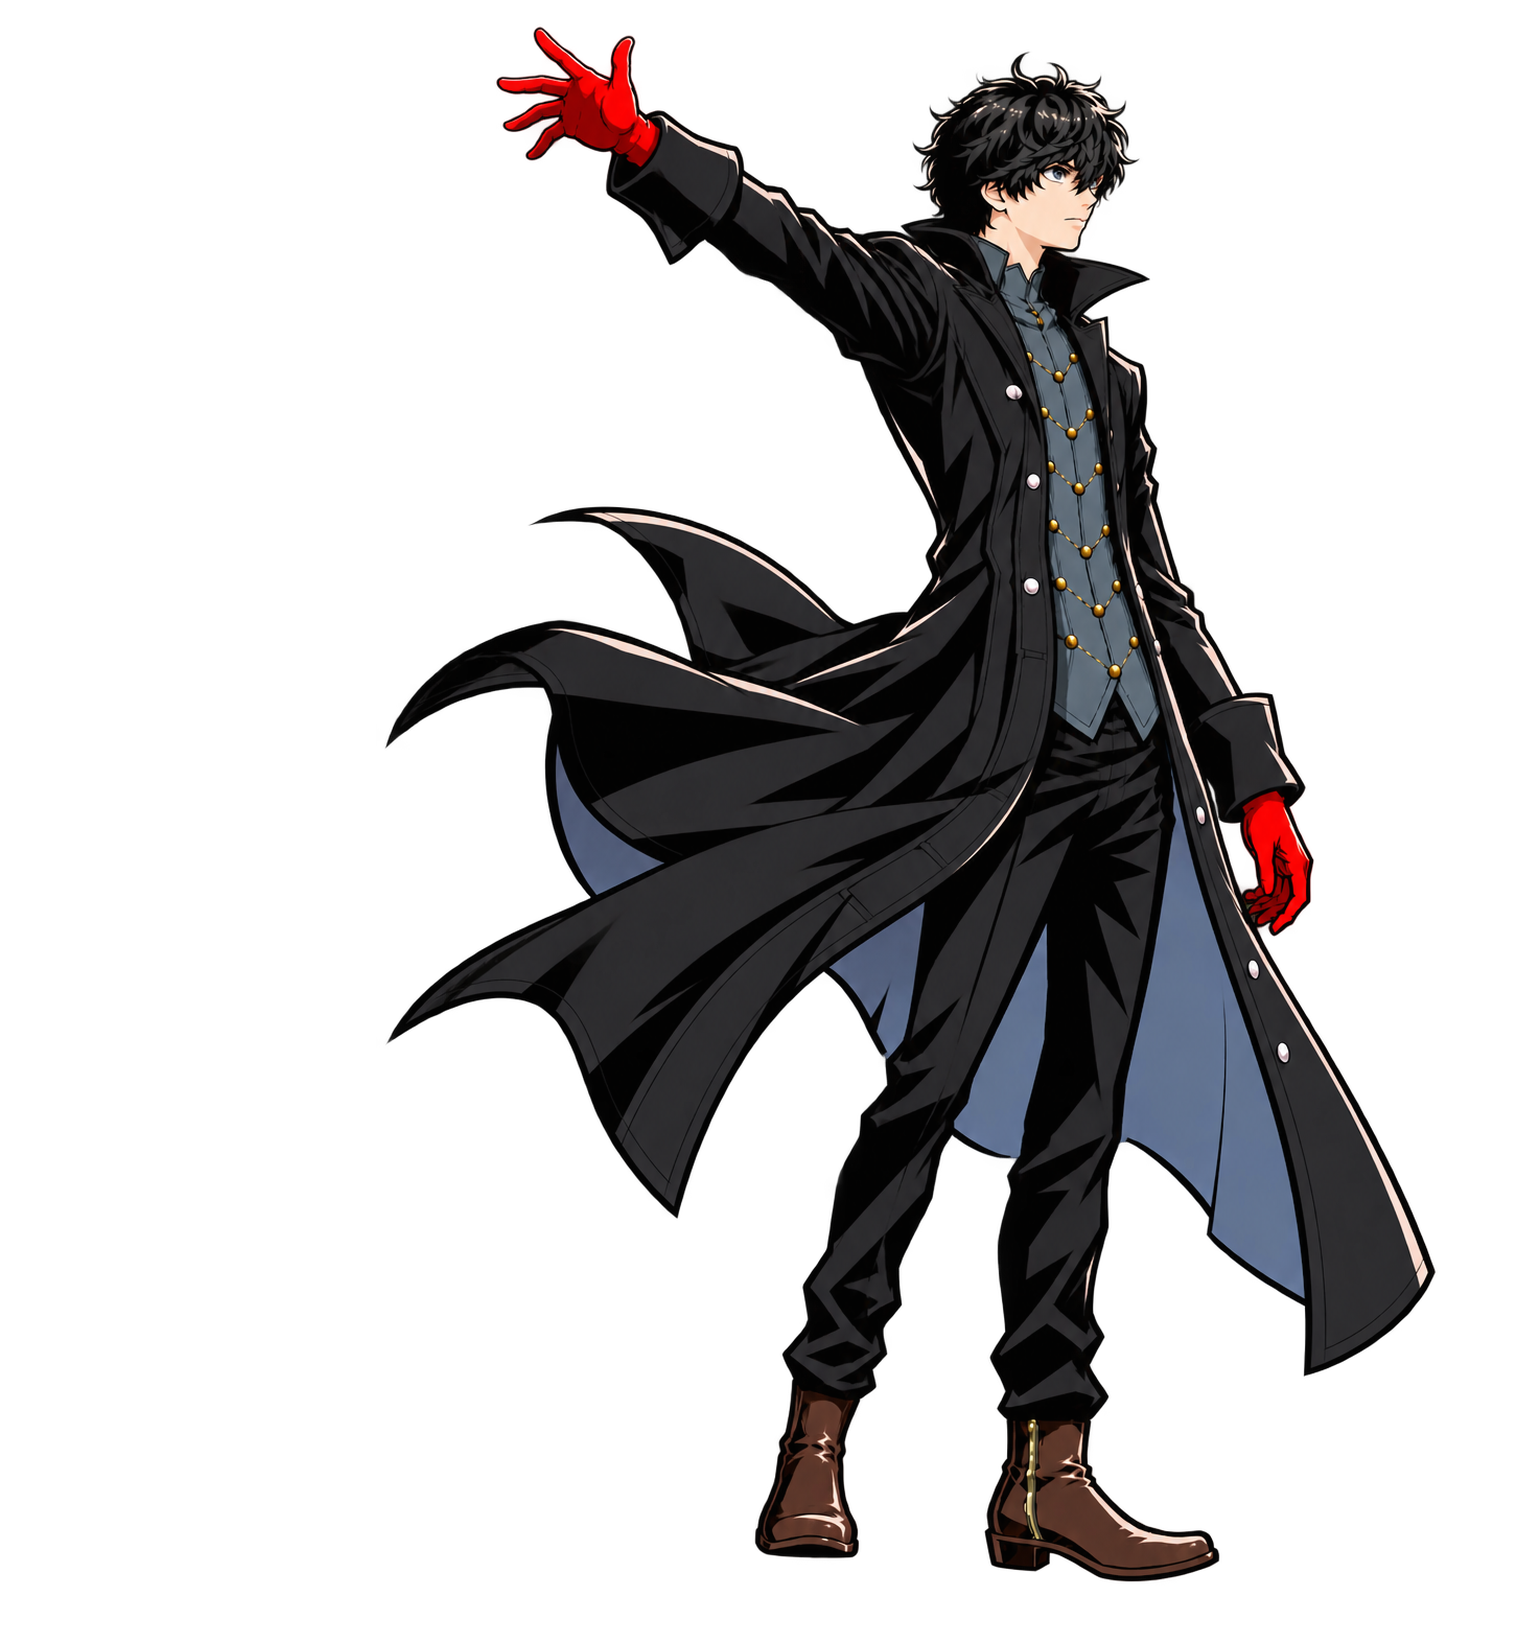
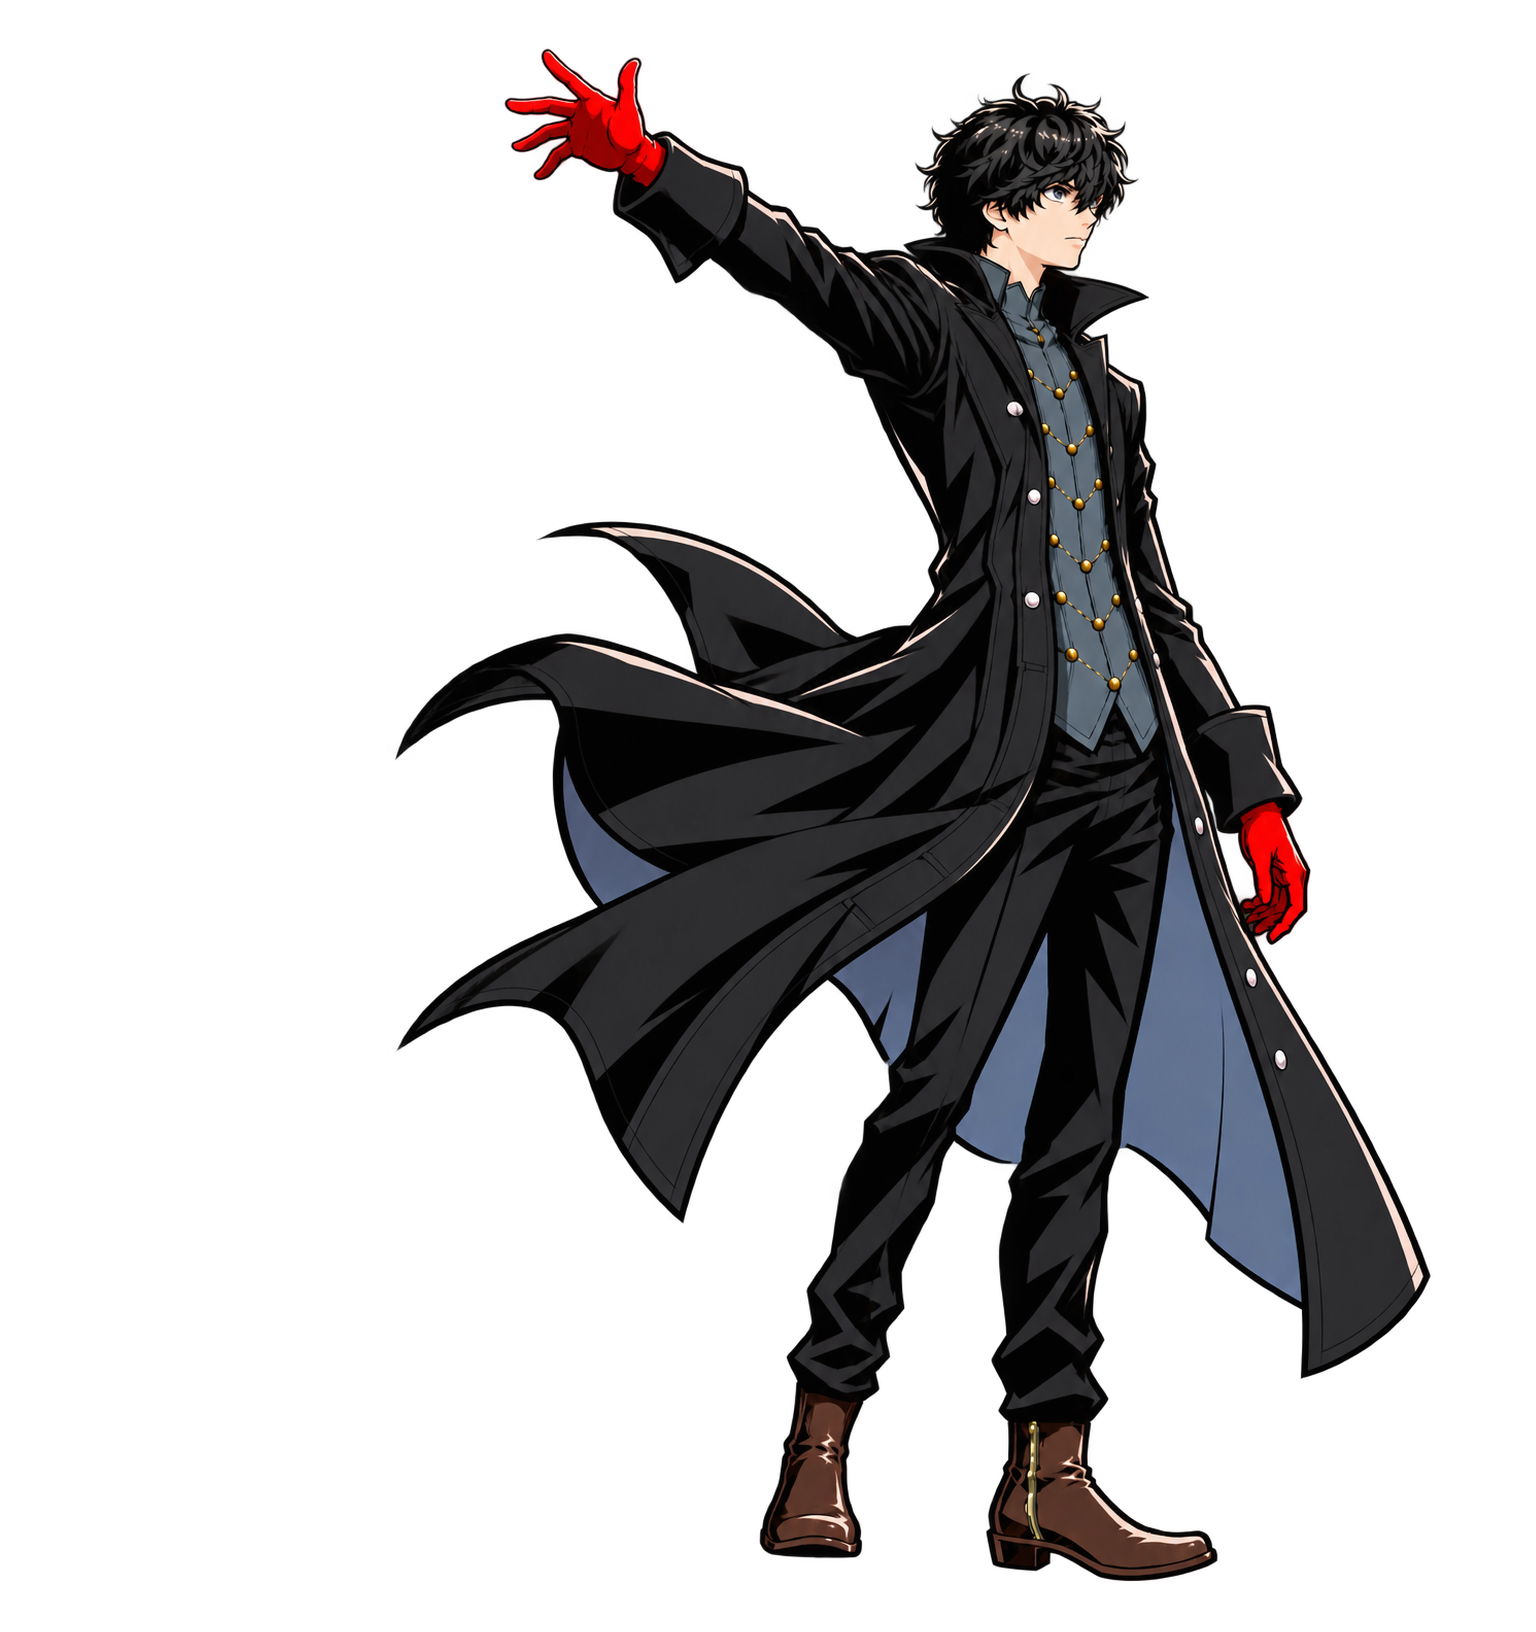
art: P5 summon_release_b scale 1.03 (1.045 read big next to open2)
Claude-Session: https://claude.ai/code/session_01Nam5m2bn9ofCCWTGM6fwcN

diff --git a/tools/p5/normalize_poses.py b/tools/p5/normalize_poses.py
@@ -34,7 +34,7 @@ POSES = {'idle_a3': (1.0, 'rear'), 'guard_a2': (1.0, 'front'), 'knife_ready_a': 
          'summon_fling1_a': (1.0, 'front'), 'summon_fling2_a': (1.015, 'front', 45),
          'summon_lift_bridge_a': (1.0, 'front'), 'summon_touch_mid_a': (1.0, 'front'), 'summon_contact_a': (1.0, 'front'),
          'summon_open1_b': (1.0, 'front'), 'summon_open2_b': (1.0, 'front'),
-         'summon_release_b': (1.045, 'front'), 'summon_settle_b': (1.033, 'front'),
+         'summon_release_b': (1.03, 'front'), 'summon_settle_b': (1.033, 'front'),
          'summon_down1_b': (1.03, 'front'), 'summon_down2_b': (1.03, 'front'), 'summon_down3_b': (1.0, 'front')}
 
 
